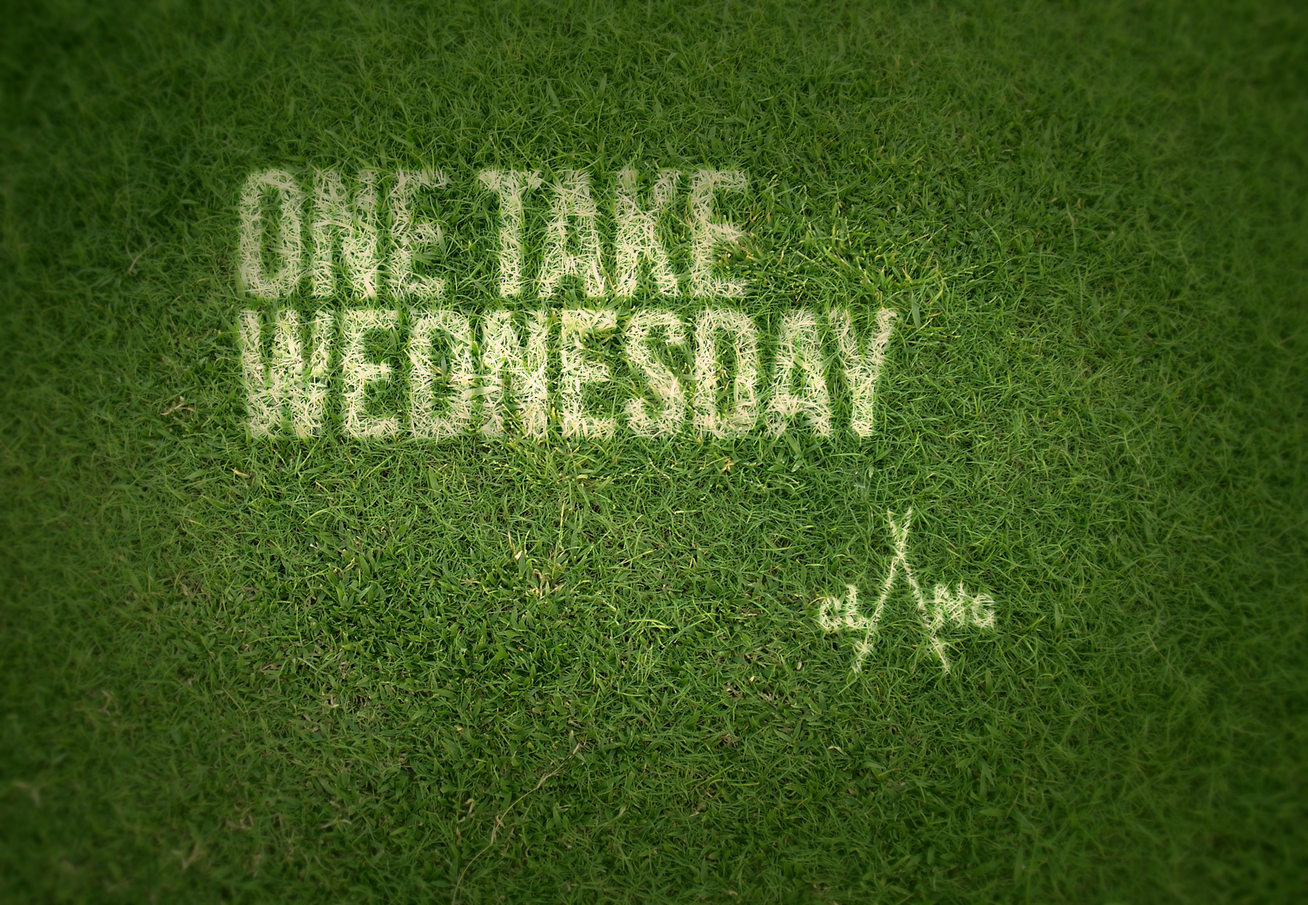
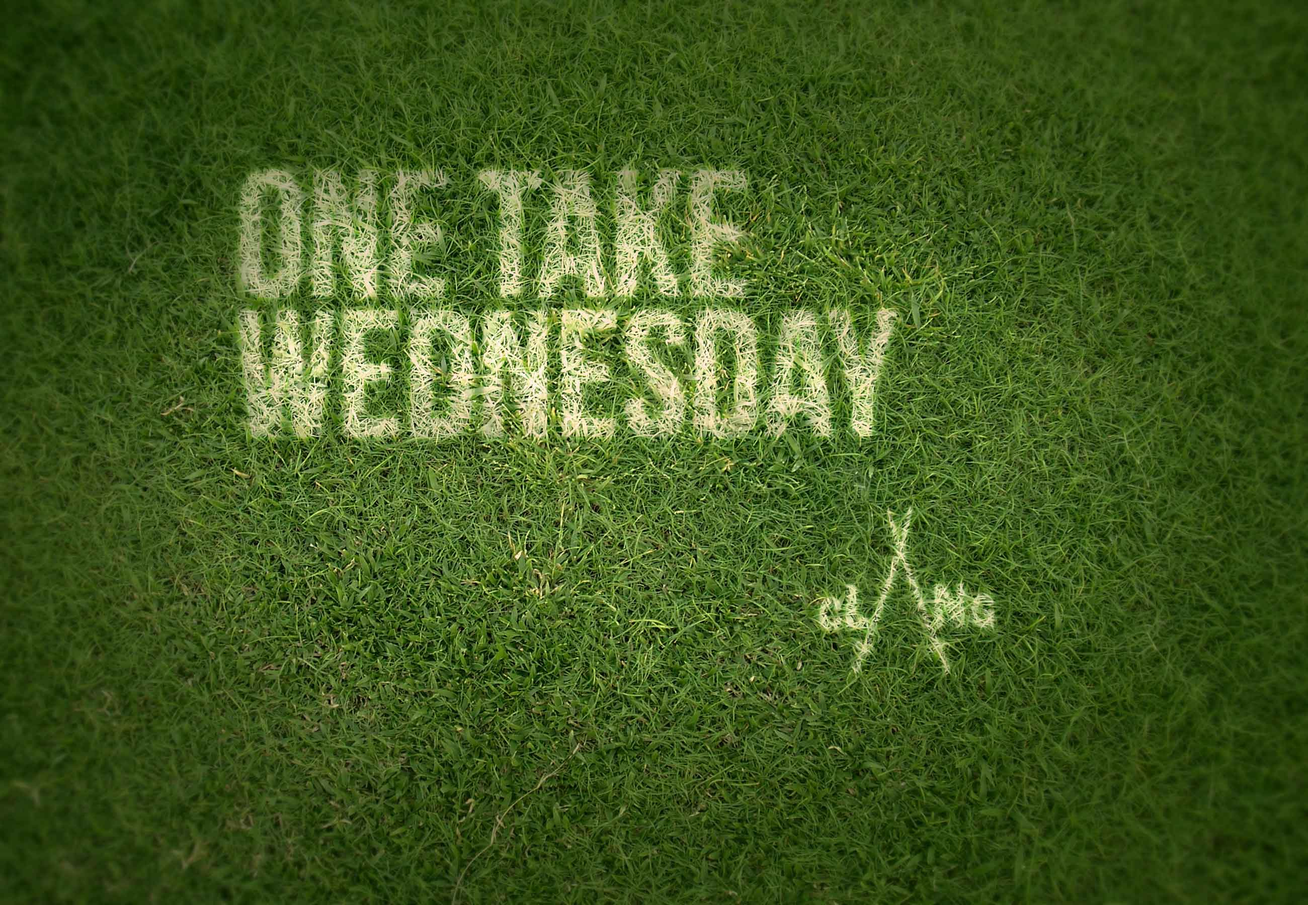
Optimization
Optimized images throughout site. Added in Ad Guide to Twitch page.

Changed region(s): [[0.1869, 0.2178, 0.6854, 0.4978], [0.3738, 0.1867, 0.405, 0.2178]]

diff --git a/twitchdetail.html b/twitchdetail.html
@@ -64,33 +64,48 @@
             <div class="row">
               <div class="col-lg-8">
                 <div class="content-column-content">
-                  <h1>An Advertiser's Guide to Twitch (Coming in April 2018!)</h1>
-                  <p class="lead">For my masters thesis, I created an interactive website that would serve as an advertiser's introduction to the popular live-streaming website Twitch.</p>
+                  <h1>An Advertiser's Guide to Twitch</h1>
+                  <p class="lead">For my masters thesis project, I created an interactive website that would serve as an advertising professional's introduction to the popular live-streaming website, Twitch. <a href="https://adguidetotwitch.github.io/">Check out the full project.</a></p>
                   
-                  <!--   
+                     
                   <div id="main-slider">
-                    <div class="item"><img alt="" src="img/slider/3.jpg" class="img-responsive"></div>
-                    <div class="item"><img alt="" src="img/slider/2.jpg" class="img-responsive"></div>
-                    <div class="item"><img alt="" src="img/slider/1.jpg" class="img-responsive"></div>
+                    <div class="item"><img alt="Top 5 Games on Twitch" src="img/portfolio/top5_1.png" class="img-responsive"></div>
+                    <div class="item"><img alt="#1 Game on Twitch" src="img/portfolio/1gameontwitch.png" class="img-responsive"></div>
+                    <div class="item"><img alt="Fortnite Data Visualization" src="img/portfolio/fortnite3.png" class="img-responsive"></div>
                   </div>
                   
 
-                  <p>A small river named Duden flows by their place and supplies it with the necessary regelialia. It is a paradisematic country, in which roasted parts of sentences fly into your mouth.</p>
-                  <ol>
-                    <li>Lorem ipsum dolor sit amet, consectetuer adipiscing elit.</li>
-                    <li>Aliquam tincidunt mauris eu risus.</li>
-                  </ol>
+                 <p>Twitch reaches a huge audience, yet it is an under-utilized advertising platform. This project solves four problems that I identified with advertising on Twitch:</p>
+                    <ol>
+                        <li>Advertisers and media buyers don't know about Twitch or why it's important</li>
+                        <li>The negative stereotypes of gamers and internet culture scare brands</li>
+                        <li>There are no widely accepted best practices for advertising on Twitch or identifying Twitch influencers</li>
+                        <li>There are few public examples of advertising success on the platform.</li>
+                    </ol>
+                    <br>
+                    
+                    <h3>More About the Project</h3>
                   <blockquote>
-                    <p>The Big Oxmox advised her not to do so, because there were thousands of bad Commas, wild Question Marks and devious Semikoli, but the Little Blind Text didn’t listen. She packed her seven versalia, put her initial into the belt and made herself on the way.</p>
+                    <p><a href="https://medium.com/@jamdanclang/advertisers-and-twitch-a-promising-match-75da7e4fd7c3">Advertisers and Twitch: A Promising Match</a></p>
+                    <p><a href="https://medium.com/@jamdanclang/using-twitch-api-data-to-identify-influencers-b3e64fd536e8">Using Twitch API Data to Identify Influencers</a></p>
                   </blockquote>
-                  <h2>Header Level 2</h2>
-                  <p>Even the all-powerful Pointing has no control about the blind texts it is an almost unorthographic life One day however a small line of blind text by the name of Lorem Ipsum decided to leave for the far World of Grammar.</p>
-                  <p>The Big Oxmox advised her not to do so, because there were thousands of bad Commas, wild Question Marks and devious Semikoli, but the Little Blind Text didn’t listen. She packed her seven versalia, put her initial into the belt and made herself on the way.</p>
-                  <ul>
-                    <li>Lorem ipsum dolor sit amet, consectetuer adipiscing elit.</li>
-                    <li>Aliquam tincidunt mauris eu risus.</li>
-                  </ul>
-                  <p>When she reached the first hills of the Italic Mountains, she had a last view back on the skyline of her hometown Bookmarksgrove, the headline of Alphabet Village and the subline of her own road, the Line Lane. Pityful a rethoric question ran over her cheek, then</p> -->
+                  
+                    <br>
+                    <h3>A Special Thanks</h3>
+                    <p>This project was done to fulfill the professional project requirement for a Master of Arts in Integrated Media Communications at the University of Nebraska - Lincoln.</p>
+                    <p>It wouldn't have gotten done without the help of these great people:</p>
+                    <ul>
+                        <li>Adam Wagler - Advisor, Chair</li>
+                        <li>Matt Waite - Advisor</li>
+                        <li>Mike Hanus - Advisor</li>
+                        <li>David Clang - Master of Web Design, Bro Jokes</li>
+                        <li>Nathan McKain - Programmer Extraordinaire </li>
+                        <li>Jodi Bergstrom - Graduate Coordinator</li>
+                        <li>Shannon Rezac - Creative Direction, Moral Support</li>
+                        <li>Mom & Dad - Everything Else, and a bag of chips</li>
+                    </ul>
+                    <br>
+                    <br>
                 </div>
               </div>
             </div>

diff --git a/createdetail.html b/createdetail.html
@@ -69,7 +69,7 @@
                     <div class="item"><img alt="Pixel Pusher logo" src="img/portfolio/Pixel%20Pusher-2.jpg" class="img-responsive"></div>
                     <div class="item"><img alt="Enjoy the Fall graphic" src="img/portfolio/enjoy%20the%20fall3.jpg" class="img-responsive"></div>
                     <div class="item"><img alt="Homestead Hamlets Box" src="img/portfolio/box%20o%20veggies.jpg" class="img-responsive"></div>
-                      <div class="item"><img alt="Zipline Lincoln Stamp" src="img/portfolio/Zipline%20Rubber%20Stamp%20%20MockUp%202.jpg" class="img-responsive"></div>
+                      <div class="item"><img alt="Zipline Lincoln Stamp" src="img/portfolio/Zipline-Rubber-Stamp--MockUp-2.jpg" class="img-responsive"></div>
                       <div class="item"><img alt="Husker Football Recruiting Calendar" src="img/portfolio/IMG_0542.JPG" class="img-responsive"></div>
                   </div>
                   <!-- /#main-slider-->
@@ -81,11 +81,11 @@
                     <h2>But wait, there's more!</h2>
                     <div id="slider">
                     <div class="item"><img alt="Zipline Brewery poster" src="img/portfolio/Poster%202.jpg" class="img-responsive"></div>
-                    <div class="item"><img alt="Save Art Poster" src="img/portfolio/Screenshot_2014-02-26-15-16-25-1.png" class="img-responsive"></div>
+                    <div class="item"><img alt="Save Art Poster" src="img/portfolio/Screenshot_2014-02-26-15-16-25-1.jpg" class="img-responsive"></div>
                     <div class="item"><img alt="DP Stone Logo" src="img/portfolio/DP%20Stone.jpg" class="img-responsive"></div>
                     <div class="item"><img alt="The Mallard Twitch Logo" src="img/portfolio/mallard.png" class="img-responsive"></div>
                     <div class="item"><img alt="THEBork Twitch Logo" src="img/portfolio/bork.jpg" class="img-responsive"></div>
-                    <div class="item"><img alt="Hoodie Allen Band Poster" src="img/portfolio/hoodie.PNG" class="img-responsive"></div>
+                    <div class="item"><img alt="Hoodie Allen Band Poster" src="img/portfolio/hoodie.jpg" class="img-responsive"></div>
                   </div>
                     <blockquote>
                     <p>“Design shouldn’t just be a nine to five thing. Don’t be afraid to apply what you guys do to every bit of your lives.”

diff --git a/nsacdetail.html b/nsacdetail.html
@@ -67,9 +67,9 @@
                   <h1>National Student Advertising Competition: Snapple</h1>
                   <p class="lead">This campaign focuses on unlikely experiences, with the only explanation being the unique level of optimism Snapple delivers. Digital, broadcast and print executions, all supplemented by refreshing social media and public relations tactics, will engage the audience in an unexpected way.</p>
                   <div id="main-slider">
-                    <div class="item"><img alt="Snapple Consumer Insights" src="img/portfolio/snapple_insights.PNG" class="img-responsive"></div>
-                    <div class="item"><img alt="Snapple Print Ad" src="img/portfolio/snapple_print.PNG" class="img-responsive"></div>
-                    <div class="item"><img alt="Snapple Social" src="img/portfolio/snapple_social.PNG" class="img-responsive"></div>
+                    <div class="item"><img alt="Snapple Consumer Insights" src="img/portfolio/snapple_insights.jpg" class="img-responsive"></div>
+                    <div class="item"><img alt="Snapple Print Ad" src="img/portfolio/snapple_print.jpg" class="img-responsive"></div>
+                    <div class="item"><img alt="Snapple Social" src="img/portfolio/snapple_social.jpg" class="img-responsive"></div>
                   </div>
                   <!-- /#main-slider-->
                   <p>NSAC teams were tasked with developing an integrated campaign for Snapple within the United States. As a graphic designer, I created print ads as well as visuals for public relations and social media activations. I worked closely with the others on the creative team to ensure the campaign had consistent creative elements.</p>

diff --git a/index.html b/index.html
@@ -64,7 +64,7 @@
             <div class="grid">
               <div class="row">
                 <div class="col-xs-12 col-sm-6 col-md-4 col-lg-3 masonry-item"> 
-                  <div class="box-masonry"><a href="twitchdetail.html" title="" class="box-masonry-image with-hover-overlay"><img src="img/portfolio/twitchlogo.png" alt="Twitch logo" class="img-responsive"></a>
+                  <div class="box-masonry"><a href="twitchdetail.html" title="" class="box-masonry-image with-hover-overlay"><img src="img/portfolio/adguidescreen.jpg" alt="Twitch logo" class="img-responsive"></a>
                     <div class="box-masonry-hover-text-header"> 
                       <h4> <a href="twitchdetail.html">An Advertiser's Guide to Twitch</a></h4>
                       <div class="box-masonry-desription">
@@ -187,7 +187,7 @@
                   </div>
                 </div>
                 <div class="col-xs-12 col-sm-6 col-md-4 col-lg-3 masonry-item"> 
-                  <div class="box-masonry"><a href="bikedetail.html" title="" class="box-masonry-image with-hover-overlay"><img src="img/portfolio/BIKE%20ONE.JPG" alt="" class="img-responsive"></a>
+                  <div class="box-masonry"><a href="bikedetail.html" title="" class="box-masonry-image with-hover-overlay"><img src="img/portfolio/BIKE-ONE.jpg" alt="" class="img-responsive"></a>
                     <div class="box-masonry-hover-text-header"> 
                       <h4> <a href="bikedetail.html">Motorbike</a></h4>
                       <div class="box-masonry-desription">

diff --git a/cojmcdetail.html b/cojmcdetail.html
@@ -67,8 +67,8 @@
                   <p class="lead">As CoJMC's student designer, everything that was displayed around the college came across my desk.</p>
                   <div id="main-slider">
                     <div class="item"><img alt="Walking Dead Advising appointment poster" src="img/portfolio/1zombieeee.jpg" class="img-responsive"></div>
-                    <div class="item"><img alt="Backyard BBQ event poster" src="img/portfolio/backyard%20BBQ%209x13.jpg" class="img-responsive"></div>
-                    <div class="item"><img alt="Career Fair Logo" src="img/portfolio/Career%20Fair%20Social%20Media.jpg" class="img-responsive"></div>
+                    <div class="item"><img alt="Backyard BBQ event poster" src="img/portfolio/backyard-BBQ-9x13.jpg" class="img-responsive"></div>
+                    <div class="item"><img alt="Career Fair Logo" src="img/portfolio/Career-Fair-Social-Media.jpg" class="img-responsive"></div>
                       <div class="item"><img alt="Branding Photography" src="img/portfolio/IMG_8857.JPG" class="img-responsive"></div>
                        <div class="item"><img alt="Branding Photography" src="img/portfolio/IMG_8938.JPG" class="img-responsive"></div>
                   </div>

diff --git a/bikedetail.html b/bikedetail.html
@@ -66,8 +66,8 @@
                   <h1>The Motorbike</h1>
                   <p class="lead">Before the hours spent in my garage getting my hands dirty and never being able to find the right sized wrench, my motorbike was a simple singlegear bicycle. The motorbike has top speeds of 30-35 mph and gets an efficient 100 mpg. However, nothing compares to seeing people’s faces when I rode past them in my hometown of North Platte, NE.</p>
                   <div id="main-slider">
-                    <div class="item"><img alt="" src="img/portfolio/BIKE%20ONE.JPG" class="img-responsive"></div>
-                    <div class="item"><img alt="" src="img/portfolio/bike2.jpg" class="img-responsive"></div>
+                    <div class="item"><img alt="Bike before motor" src="img/portfolio/BIKE-ONE.jpg" class="img-responsive"></div>
+                    <div class="item"><img alt="bike with motor" src="img/portfolio/bike2.jpg" class="img-responsive"></div>
                     
                   </div>
                   <!-- /#main-slider-->

diff --git a/uhdetail.html b/uhdetail.html
@@ -68,8 +68,8 @@
                   <div id="main-slider">
                     <div class="item"><img alt="Neihardt Staff Duty Board" src="img/portfolio/the%20bunch.jpg" class="img-responsive"></div>
                     <div class="item"><img alt="First Day of School social posts" src="img/portfolio/firstdayofschool.jpg" class="img-responsive"></div>
-                    <div class="item"><img alt="Rootbeer Pong Poster" src="img/portfolio/rootbeerpong.PNG" class="img-responsive"></div>
-                    <div class="item"><img alt="Educational Event Poster" src="img/portfolio/Night%20at%20the%20museum%20ad.jpg" class="img-responsive"></div>
+                    <div class="item"><img alt="Rootbeer Pong Poster" src="img/portfolio/rootbeerpong.jpg" class="img-responsive"></div>
+                    <div class="item"><img alt="Educational Event Poster" src="img/portfolio/Night-at-the-museum-ad.jpg" class="img-responsive"></div>
                   </div>
                   <!-- /#main-slider-->
                   

diff --git a/onetakedetail.html b/onetakedetail.html
@@ -67,7 +67,7 @@
                   <p class="lead">This project was the result of a tendency to take music too seriously. I found when I was recording that I would settle for nothing less than perfection. To take some of the stress away from the process I decided to do One Take Wednesdays - a single rendition of a song published with mistakes for the world to hear. </p>
                   <div id="main-slider">
                     <div class="item"><img alt="One Take Wednesday distressed" src="img/portfolio/5.jpg" class="img-responsive"></div>
-                    <div class="item"><img alt="One Take Wednesday field" src="img/portfolio/field.png" class="img-responsive"></div>
+                    <div class="item"><img alt="One Take Wednesday field" src="img/portfolio/field.jpg" class="img-responsive"></div>
                     <div class="item"><img alt="One Take Wednesday blue" src="img/portfolio/3.jpg" class="img-responsive"></div>
                   </div>
                   <!-- /#main-slider-->

diff --git a/sabdetail.html b/sabdetail.html
@@ -71,7 +71,7 @@
                     <div class="item"><img alt="2016 CoJMC t-shirt design" src="img/portfolio/COJMC_Design_Scarlet.jpg" class="img-responsive"></div>
                     <div class="item"><img alt="Student Advisory Board logo" src="img/portfolio/sab2.png" class="img-responsive"></div>
                     <div class="item"><img alt="Sound Bites logo" src="img/portfolio/soundbites2.png" class="img-responsive"></div>
-                    <div class="item"><img alt="2017 CoJMC t-shirt design" src="img/portfolio/cojmcshirt2.png" class="img-responsive"></div>
+                    <div class="item"><img alt="2017 CoJMC t-shirt design" src="img/portfolio/cojmcshirt2.jpg" class="img-responsive"></div>
                     
                   </div>
                   <!-- /#main-slider-->

diff --git a/contact.html b/contact.html
@@ -93,6 +93,8 @@
                     }(document, "script", "twitter-wjs"));</script>
  <!-- TWITTER?!?! end -->   
                     
+                    
+                
                    <!-- 
                     <h4>Drop me a line, maybe?</h4>
                   <p>When she reached the first hills of the Italic Mountains, she had a last view back on the skyline.</p>
